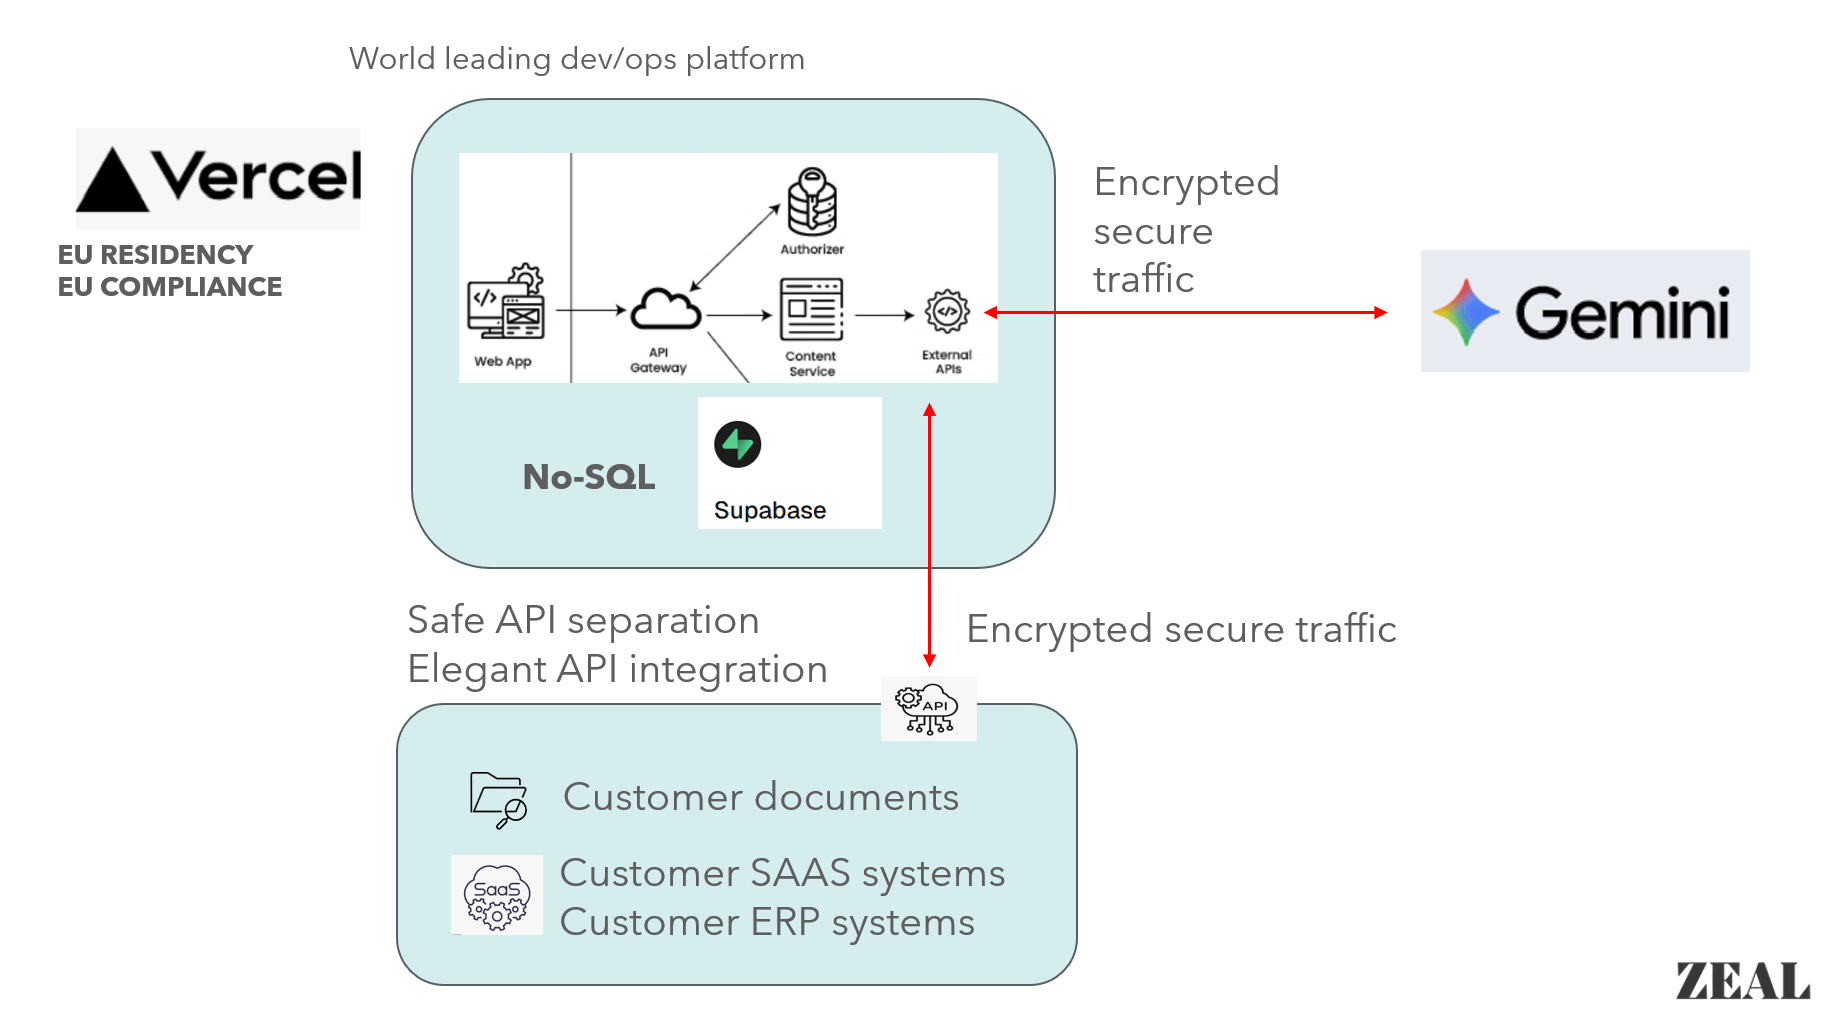
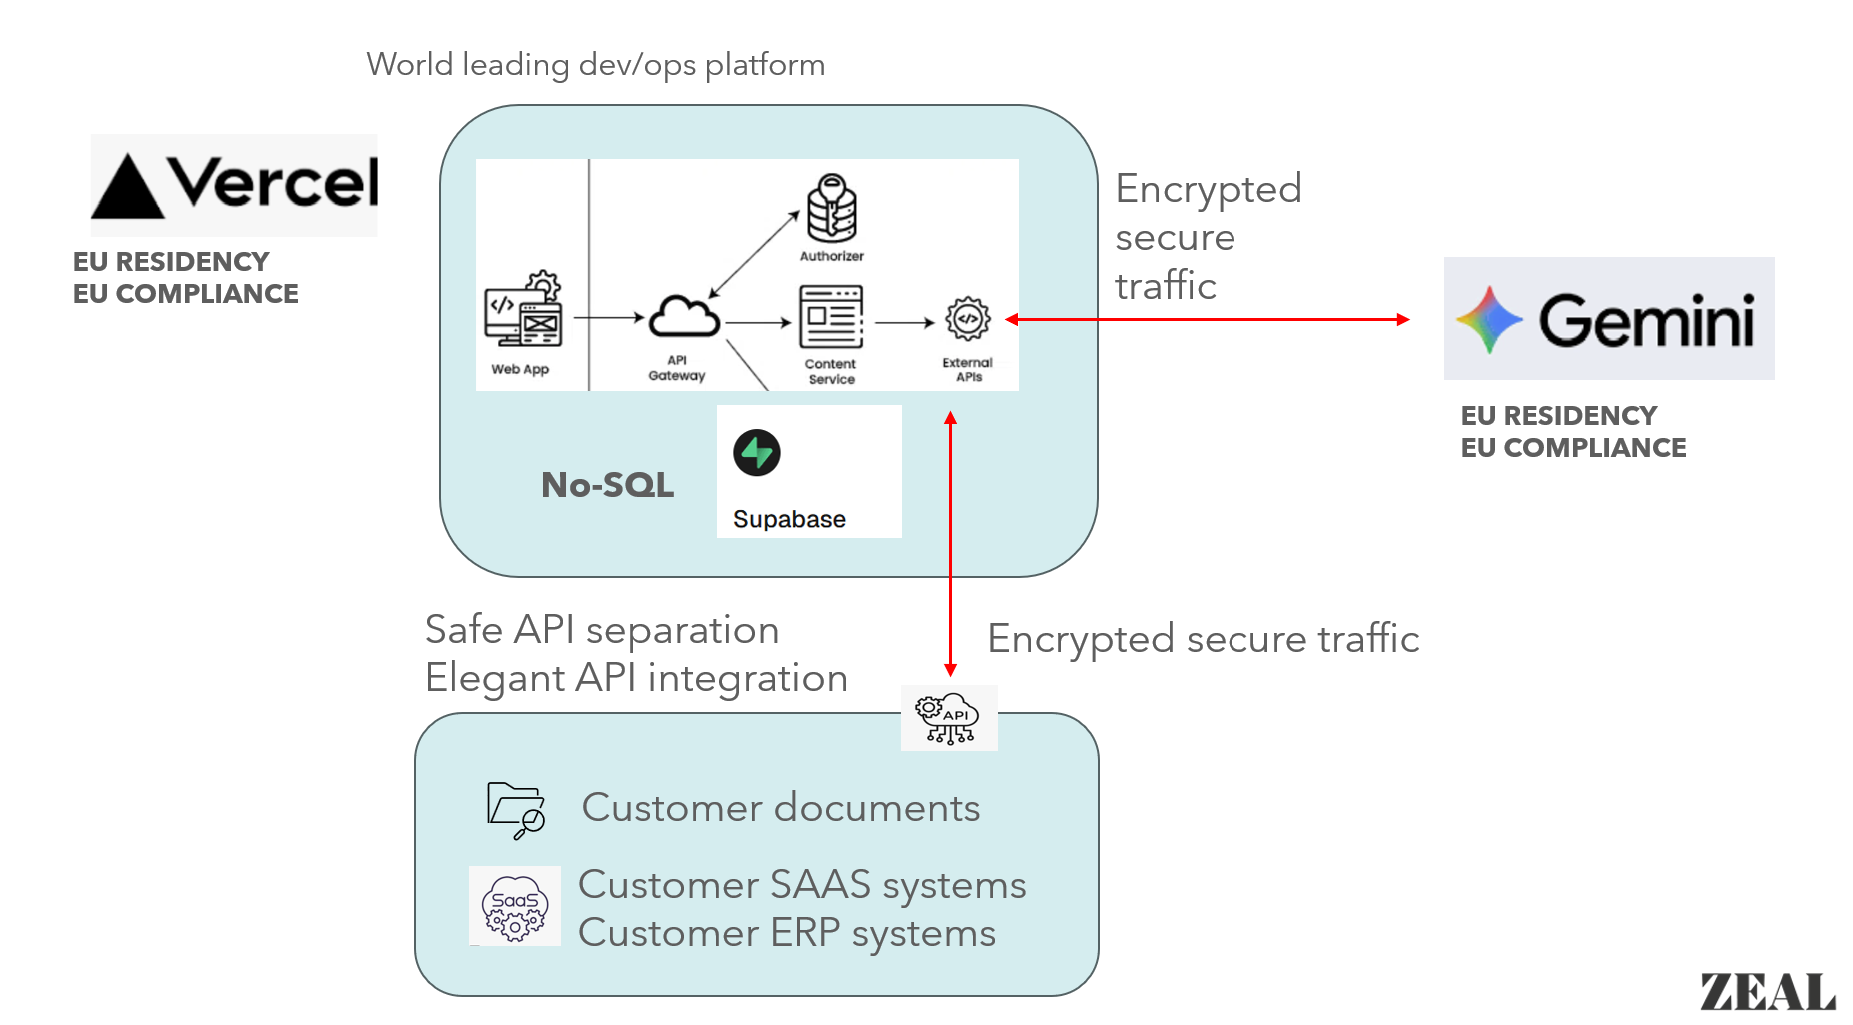
Update Google Gemini description with EU residency and security image
- Add EU residency to Google Gemini description
- Update security architecture image

🤖 Generated with [Claude Code](https://claude.com/claude-code)

Changed region(s): [[0.0312, 0.0304, 0.9672, 0.9725], [0.78, 0.3951, 0.9048, 0.4559], [0.9048, 0.9422, 0.9984, 1.0]]

diff --git a/index.html b/index.html
@@ -78,7 +78,7 @@
                             <ul>
                                 <li><strong>Vercel</strong> - EU Residency, EU Compliance, world-leading dev/ops platform</li>
                                 <li><strong>Supabase</strong> - Postgress Database Trusted by the world's most innovative companies. Authentication, instant APIs, Edge Functions, Realtime subscriptions, Storage, and Vector embeddings.</li>
-                                <li><strong>Google Gemini</strong> - access to Google's most capable multimodal models via enterprise security and compliance</li>
+                                <li><strong>Google Gemini</strong> - access to Google's most capable multimodal models via enterprise security, compliance and EU residency.</li>
                                 <li><strong>Customer Critical ERP systems</strong> - safe separation / version control isolation and data integration from modern Vertical AI to your legacy SAAS</li>
                             </ul>
                             <div class="security-links">
